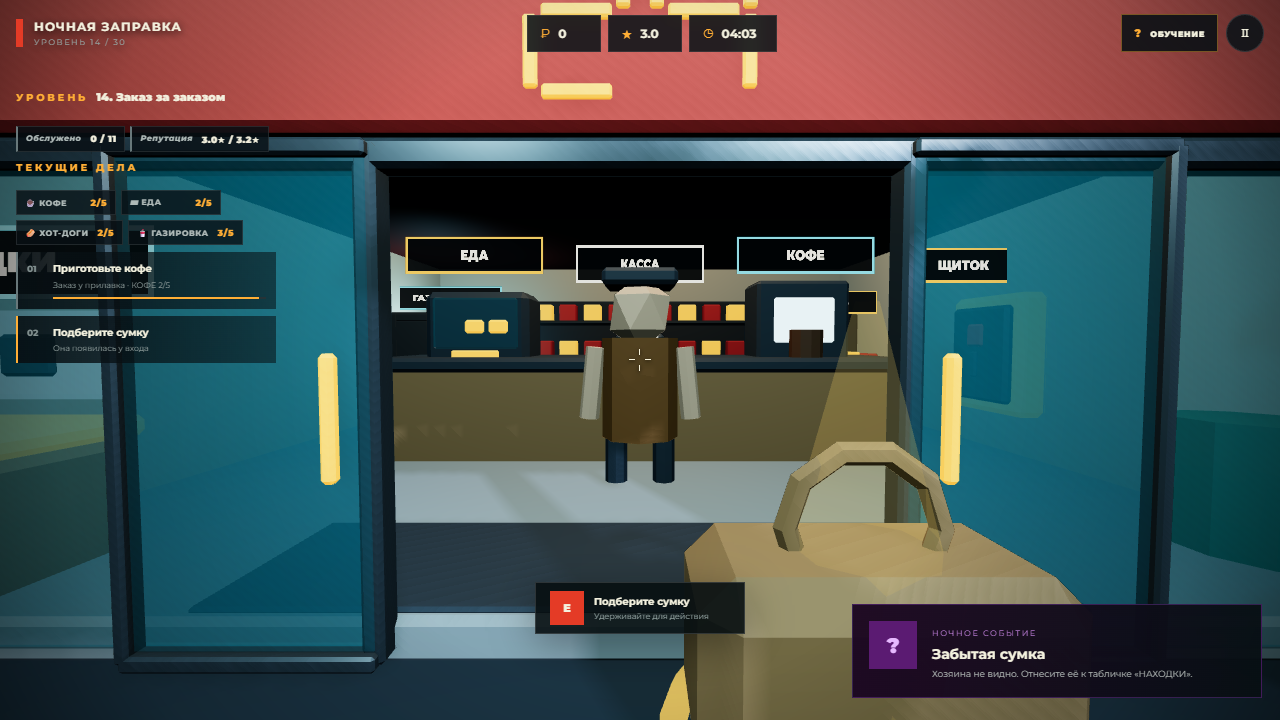
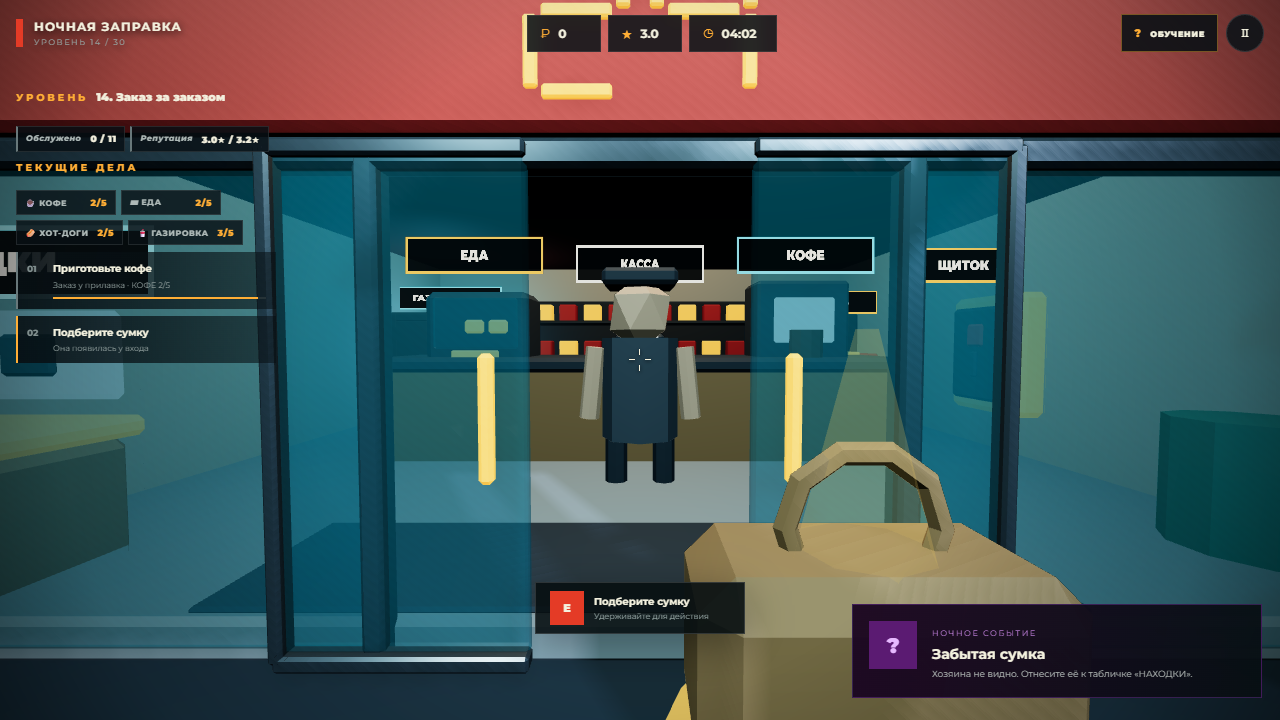
The last minute of a shift is a dawn
The sky was the same at 02:47 and at 00:03, so the end of a night was a
number you read rather than something you saw coming.

For the last sixty seconds one value runs from 0 to 1 and everything else
follows it. Stars, milky way and moon halo fade out, the moon itself goes
pale, meteors stop. A warm band comes up on the horizon to the right,
along the road, with a brighter core under it and a spark at the very
end. The fog thins, its colour and the background lift from night blue
toward a grey-blue morning, and the hemisphere light comes up with them.
Nothing moves, so it costs nothing: the same sprites and materials the
sky already had, with an opacity each.

The blackout still wins over all of it — the panel going out is darker
than any hour. Every shift starts from night again, and so does the menu.

Written so it is one number to reason about: sky.setDawn(value) in
sky.js, applyDawn(value) in the game, and a single line in the shift loop
that computes it from the time left.

diff --git a/src/main.js b/src/main.js
@@ -31,6 +31,8 @@ const WORLD={minX:-14.2,maxX:9.2,minZ:-13.2,maxZ:6.2};
 const VEHICLE_STATE=Object.freeze({ENTERING:'entering',QUEUEING:'queueing',APPROACHING_PUMP:'approachingPump',WAITING:'waiting',FUELING:'fueling',LEAVING:'leaving'});
 const PLAYER_RADIUS=.36,CUSTOMER_RADIUS=.34,SAFE_MARGIN=.22,VEHICLE_MARGIN=.28,SAFE_APPROACH=12,STALL_LIMIT=6,QUEUE_STALL=10,YIELD_LIMIT=18;
 const GROUND_Y=.26,UPPER_FLOOR_Y=3.68,EYE_HEIGHT=1.62,JUMP_SPEED=4.9,GRAVITY=16.5,RAIN_HEIGHT=15;
+// Последняя минута смены — это рассвет: небо светлеет, звёзды гаснут, горизонт разгорается.
+const DAWN_WINDOW=60,DAWN_FOG=new THREE.Color(0x56626f);
 const STAIR={minX:4.98,maxX:6.66,minZ:-2.38,maxZ:3.12},UPPER_LANDING={minX:4.16,maxX:7.1,minZ:2.54,maxZ:4.14},UPPER_ROOM={minX:-4.3,maxX:4.3,minZ:-2.16,maxZ:6.2};
 const CART_SPOT=new THREE.Vector3(0,.95,1.02);
 /* Выкупленное стоит в моделях с самого начала и просто прячется до покупки. */
@@ -68,7 +70,7 @@ const GUIDE_SLIDES=[
   ['Кто приехал','Ночью приезжают не только легковые. Мотоцикл заправляется за пару секунд, но и ждать почти не станет — денег с него мало. Фура стоит у колонки дольше всех и платит вдвое: ей нужен третий пост слева, между колонками под навесом ей не развернуться. Автобус привозит в магазин сразу три заказа и не уедет, пока не обслужат последнего.','tutorial/08-vehicles.png'],
   ['Склад наверху','Всё, чем торгует прилавок, и весь инвентарь лежат на складе второго этажа: выйдите на улицу, поднимитесь по лестнице справа от магазина, и дверь откроется сама. У каждого стеллажа своя лента — кофе, еда, хот-доги, газировка. У самой двери стоят верстак с инструментом и швабра с ведром. Коробку можно взять заранее, пока нет очереди, а инструмент со шваброй — до того, как что-нибудь случится.','tutorial/07-stock.png'],
   ['Станция растёт','Ночная выручка остаётся на станции. В меню и на экране итогов есть раздел «СТАНЦИЯ»: там за деньги выкупаются вторая кофемашина, прожекторы над площадкой, щит на трассе, скоростные насосы, третий пост навсегда и тележка для коробок. Покупка одна и навсегда — её видно на площадке и слышно по работе, а работать лучше, чем «на зачёт», становится выгодно.','tutorial/09-station.png'],
-  ['Цель ночи','У каждого уровня своя цель: обслужить столько-то машин, заработать сумму, удержать репутацию или не упустить клиентов. Прогресс виден в панели дел слева. Если цель не выполнена, уровень можно переиграть — деньги и улучшения остаются.','tutorial/05-goal.png'],
+  ['Цель ночи','У каждого уровня своя цель: обслужить столько-то машин, заработать сумму, удержать репутацию или не упустить клиентов. Прогресс виден в панели дел слева. За минуту до конца небо начинает светлеть, а звёзды гаснут — сколько осталось, видно и без часов. Если цель не выполнена, уровень можно переиграть: деньги и выкупленное на станции остаются.','tutorial/05-goal.png'],
   ['Ночные происшествия','При отключении света вся заправка остановится: поднимитесь на склад за инструментом и почините щиток у левой стены магазина. Входные двери аварийно останутся открыты. Пролитый кофе закрывает прилавок: пока пол липкий, заказы не готовят и не выдают, так что за шваброй придётся идти сразу. Жёлтый ящик «НАХОДКИ» стоит справа от входа.','tutorial/04-events.png']
 ];
 
@@ -77,7 +79,7 @@ class NightStationGame{
     this.canvas=$('#scene');this.scene=new THREE.Scene();this.scene.background=new THREE.Color(0x091820);this.scene.fog=new THREE.FogExp2(0x091820,.022);
     this.camera=new THREE.PerspectiveCamera(72,innerWidth/innerHeight,.08,120);this.camera.position.set(0,1.65,-2.8);this.camera.rotation.order='YXZ';
     this.renderer=new THREE.WebGLRenderer({canvas:this.canvas,antialias:true,powerPreference:'high-performance'});this.renderer.setPixelRatio(Math.min(devicePixelRatio,1.55));this.renderer.setSize(innerWidth,innerHeight);this.renderer.shadowMap.enabled=true;this.renderer.shadowMap.type=THREE.PCFSoftShadowMap;this.renderer.outputColorSpace=THREE.SRGBColorSpace;this.renderer.toneMapping=THREE.ACESFilmicToneMapping;this.renderer.toneMappingExposure=1.28;
-    this.clock=new THREE.Clock();this.assets={};this.mode='loading';this.player=null;this.jobs=[];this.cars=[];this.carQueue=[];this.traffic=[];this.pumps=[];this.nearest=null;this.actionHeld=false;this.actionLatched=false;this.actionProgress=0;this.keys={};this.joy={x:0,y:0};this.yaw=0;this.pitch=-.04;this.lookTouch=null;this.jobId=0;this.vehicleId=0;this.taskSignature='';this.guideIndex=0;this.resumeAfterGuide=false;this.elapsed=0;this.shiftConfig=getShiftConfig(1);this.shiftLength=this.shiftConfig.duration;this.spawnTimer=2;this.eventTimer=24;this.trafficTimer=4;this.stock={coffee:MAX_STOCK,snack:MAX_STOCK,hotdog:MAX_STOCK,soda:MAX_STOCK};this.fuelMax=null;this.fuelLeft=Infinity;this.fuelWarned=false;this.weather=WEATHER.clear.id;this.baseHemi=1.85;this.carry=null;this.fuelHose=null;this.served=0;this.lost=0;this.shiftStartMoney=0;this.shiftEarned=0;this.scriptedFired=new Set();this.currentRush=null;this.levelResult=null;this.goalSignature='';this.closedSigns=[];this.blackout=false;this.blackoutCarry=null;this.specialVan=null;this.tanker=null;this.bayHeld=null;this.bayReservedAt=0;this.draining=false;this.doorOpen=0;this.doorParts={left:[],right:[]};this.doorGlass=[];this.upperDoorOpen=0;this.upperDoorParts=[];this.stockVisuals={coffee:[],snack:[],hotdog:[],soda:[]};this.shelfVisuals={coffee:[],snack:[],soda:[],hotdog:[]};this.customers=[];this.notedTypes=new Set();this.upgradeVisuals={};this.floodLights=[];this.powerVisuals=[];this.markerBaseY=.12;this.state=migrateProgress(DEFAULT_PROGRESS);
+    this.clock=new THREE.Clock();this.assets={};this.mode='loading';this.player=null;this.jobs=[];this.cars=[];this.carQueue=[];this.traffic=[];this.pumps=[];this.nearest=null;this.actionHeld=false;this.actionLatched=false;this.actionProgress=0;this.keys={};this.joy={x:0,y:0};this.yaw=0;this.pitch=-.04;this.lookTouch=null;this.jobId=0;this.vehicleId=0;this.taskSignature='';this.guideIndex=0;this.resumeAfterGuide=false;this.elapsed=0;this.shiftConfig=getShiftConfig(1);this.shiftLength=this.shiftConfig.duration;this.spawnTimer=2;this.eventTimer=24;this.trafficTimer=4;this.stock={coffee:MAX_STOCK,snack:MAX_STOCK,hotdog:MAX_STOCK,soda:MAX_STOCK};this.fuelMax=null;this.fuelLeft=Infinity;this.fuelWarned=false;this.weather=WEATHER.clear.id;this.baseHemi=1.85;this.dawn=0;this.nightFog=new THREE.Color(0x091820);this.nightDensity=.022;this.carry=null;this.fuelHose=null;this.served=0;this.lost=0;this.shiftStartMoney=0;this.shiftEarned=0;this.scriptedFired=new Set();this.currentRush=null;this.levelResult=null;this.goalSignature='';this.closedSigns=[];this.blackout=false;this.blackoutCarry=null;this.specialVan=null;this.tanker=null;this.bayHeld=null;this.bayReservedAt=0;this.draining=false;this.doorOpen=0;this.doorParts={left:[],right:[]};this.doorGlass=[];this.upperDoorOpen=0;this.upperDoorParts=[];this.stockVisuals={coffee:[],snack:[],hotdog:[],soda:[]};this.shelfVisuals={coffee:[],snack:[],soda:[],hotdog:[]};this.customers=[];this.notedTypes=new Set();this.upgradeVisuals={};this.floodLights=[];this.powerVisuals=[];this.markerBaseY=.12;this.state=migrateProgress(DEFAULT_PROGRESS);
     this.audio=audio;this.hands=new HandView();this.moving=false;this.lastYaw=0;this.lastPitch=0;this.grounded=true;this.jumpHeight=0;this.jumpSpeed=0;this.landDip=0;
     this.setupWorld();this.setupInput();this.setupUI();window.addEventListener('resize',()=>this.resize());document.addEventListener('visibilitychange',()=>this.visibility());
   }
@@ -147,12 +149,14 @@ class NightStationGame{
   applyWeather(kind){
     const weather=WEATHER[kind]||WEATHER.clear;this.weather=weather.id;
     const density={clear:.022,rain:.031,fog:.055}[weather.id],tint=weather.id==='fog'?0x101f26:0x091820;
+    this.nightFog.setHex(tint);this.nightDensity=density;
     this.scene.fog.density=density;this.scene.fog.color.setHex(tint);this.scene.background.setHex(tint);
     this.baseHemi=(weather.id==='fog'?2.15:weather.id==='rain'?1.6:1.85)+(this.has('floodlights')?.38:0);
     this.hemi.intensity=this.blackout?.45:this.baseHemi;
     this.rain.points.visible=weather.id==='rain';
     this.groundMats.forEach(material=>{material.roughness=weather.id==='rain'?.38:.95});
     this.sky.group.visible=weather.id!=='fog';
+    this.applyDawn(this.dawn);
   }
   createLandmarkLabel(text,color,position,width=2,fontSize=43){
     const canvas=document.createElement('canvas');canvas.width=512;canvas.height=128;const ctx=canvas.getContext('2d');ctx.fillStyle='rgba(5,13,17,.92)';ctx.fillRect(8,12,496,104);ctx.strokeStyle=color;ctx.lineWidth=8;ctx.strokeRect(8,12,496,104);ctx.fillStyle='#f7f3df';ctx.font=`900 ${fontSize}px Montserrat, Arial`;ctx.textAlign='center';ctx.textBaseline='middle';ctx.fillText(text,256,66);
@@ -249,11 +253,11 @@ class NightStationGame{
     ui.stationGrid.onclick=event=>{const card=event.target.closest('[data-upgrade]');if(card)this.buyUpgrade(card.dataset.upgrade)};
   }
   setState(data){if(!data)return;this.state=migrateProgress(data);this.checkAchievements(true);this.shiftConfig=this.shiftFor(this.state.shift);this.shiftLength=this.shiftConfig.duration;audio.setMuted(!this.state.sound);audio.setMusicVolume(this.state.musicVolume/100);const slider=$('#music-volume');if(slider){slider.value=this.state.musicVolume;$('#music-volume-value').textContent=`${this.state.musicVolume}%`}$('#sound-btn').textContent=`ЗВУК: ${this.state.sound?'ВКЛ':'ВЫКЛ'}`}
-  showMenu(){this.mode='menu';this.applyWeather('clear');document.exitPointerLock?.();this.camera.fov=43;this.camera.updateProjectionMatrix();this.camera.position.set(12,12,-16);this.camera.lookAt(0,1,-4);if(this.player)this.player.visible=true;ui.hud.classList.add('hidden');ui.tasks.classList.add('hidden');ui.mobile.classList.add('hidden');ui.prompt.classList.add('hidden');ui.crosshair.classList.add('hidden');ui.lookHint.classList.add('hidden');ui.results.classList.add('hidden');ui.campaignComplete.classList.add('hidden');ui.menu.classList.remove('hidden');$('#continue-btn').classList.toggle('hidden',!loadLocal()&&!cloudSave);}
+  showMenu(){this.mode='menu';this.dawn=0;this.applyWeather('clear');document.exitPointerLock?.();this.camera.fov=43;this.camera.updateProjectionMatrix();this.camera.position.set(12,12,-16);this.camera.lookAt(0,1,-4);if(this.player)this.player.visible=true;ui.hud.classList.add('hidden');ui.tasks.classList.add('hidden');ui.mobile.classList.add('hidden');ui.prompt.classList.add('hidden');ui.crosshair.classList.add('hidden');ui.lookHint.classList.add('hidden');ui.results.classList.add('hidden');ui.campaignComplete.classList.add('hidden');ui.menu.classList.remove('hidden');$('#continue-btn').classList.toggle('hidden',!loadLocal()&&!cloudSave);}
   prepareStart(fresh){audio.ensure();if(fresh)this.setState(DEFAULT_PROGRESS);ui.menu.classList.add('hidden');if(this.state.playMode===PLAY_MODE.CAMPAIGN&&this.state.campaignComplete){this.showCampaignComplete();return}if(this.state.playMode===PLAY_MODE.CAMPAIGN)this.state.shift=nextLevel(this.state.levelsCleared);if(!this.state.tutorial)ui.tutorial.classList.remove('hidden');else this.startShift()}
   startShift(){
     this.shiftConfig=this.shiftFor(this.state.shift);this.shiftLength=this.shiftConfig.duration;
-    this.clearShift();this.applyUpgradeVisuals();this.addStandJobs();this.mode='playing';this.elapsed=0;this.spawnTimer=this.shiftConfig.carSpawn.initialDelay;this.eventTimer=randomFromRange(this.shiftConfig.eventSpawn.initial);this.trafficTimer=2.5;this.served=0;this.lost=0;this.scriptedFired.clear();this.notedTypes=new Set();this.currentRush=null;this.levelResult=null;this.goalSignature='';this.applyLevelSetup();this.shiftStartMoney=this.state.money;this.blackout=false;this.blackoutCarry=null;this.setBlackout(false);this.doorOpen=0;this.upperDoorOpen=0;this.applyDoorOpen();this.applyUpperDoorOpen();this.yaw=0;this.pitch=-.04;this.camera.fov=72;this.camera.updateProjectionMatrix();this.player.position.set(0,GROUND_Y,-3.35);this.player.visible=false;this.resetJump();ui.hud.classList.remove('hidden');ui.tasks.classList.remove('hidden');ui.crosshair.classList.remove('hidden');ui.lookHint.classList.toggle('hidden',isTouch||document.pointerLockElement===this.canvas);ui.mobile.classList.toggle('hidden',!isTouch);ui.results.classList.add('hidden');ui.campaignComplete.classList.add('hidden');this.announceLevel();this.updateHud();saveProgress(this.state);this.lockPointer()
+    this.clearShift();this.applyDawn(0);this.applyUpgradeVisuals();this.addStandJobs();this.mode='playing';this.elapsed=0;this.spawnTimer=this.shiftConfig.carSpawn.initialDelay;this.eventTimer=randomFromRange(this.shiftConfig.eventSpawn.initial);this.trafficTimer=2.5;this.served=0;this.lost=0;this.scriptedFired.clear();this.notedTypes=new Set();this.currentRush=null;this.levelResult=null;this.goalSignature='';this.applyLevelSetup();this.shiftStartMoney=this.state.money;this.blackout=false;this.blackoutCarry=null;this.setBlackout(false);this.doorOpen=0;this.upperDoorOpen=0;this.applyDoorOpen();this.applyUpperDoorOpen();this.yaw=0;this.pitch=-.04;this.camera.fov=72;this.camera.updateProjectionMatrix();this.player.position.set(0,GROUND_Y,-3.35);this.player.visible=false;this.resetJump();ui.hud.classList.remove('hidden');ui.tasks.classList.remove('hidden');ui.crosshair.classList.remove('hidden');ui.lookHint.classList.toggle('hidden',isTouch||document.pointerLockElement===this.canvas);ui.mobile.classList.toggle('hidden',!isTouch);ui.results.classList.add('hidden');ui.campaignComplete.classList.add('hidden');this.announceLevel();this.updateHud();saveProgress(this.state);this.lockPointer()
   }
   clearShift(){this.returnFuelHose();for(const c of [...this.cars])this.despawn(c);this.cars=[];this.carQueue=[];for(const t of [...this.traffic])this.despawn(t);this.traffic=[];for(const j of this.jobs)if(j.visual)this.scene.remove(j.visual);this.jobs=[];this.pumps.forEach(p=>{p.car=null;p.departingCar=null;p.broken=false;p.reserved=false});if(this.specialVan){this.despawn(this.specialVan);this.specialVan=null}if(this.tanker){this.despawn(this.tanker);this.tanker=null}this.clearCustomers();this.bayHeld=null;this.draining=false;this.carry=null;this.blackoutCarry=null;this.kitMop?.forEach(m=>m.visible=true);this.updateCarry()}
   update(dt){
@@ -272,6 +276,8 @@ class NightStationGame{
   closeGuide(){ui.guide.classList.add('hidden');if(!this.resumeAfterGuide)return;this.resumeAfterGuide=false;this.mode='playing';audio.pause(false);ui.mobile.classList.toggle('hidden',!isTouch);ui.lookHint.classList.toggle('hidden',isTouch||document.pointerLockElement===this.canvas);this.lockPointer();this.clock.getDelta()}
   updatePlay(dt){
     this.elapsed+=dt;if(this.elapsed>=this.shiftLength||this.levelResult&&!this.levelResult.passed){this.finishShift();return}
+    const left=this.shiftLength-this.elapsed,dawn=left>=DAWN_WINDOW?0:1-Math.max(0,left)/DAWN_WINDOW;
+    if(dawn!==this.dawn)this.applyDawn(dawn);
     this.updateSchedule();
     if(!this.blackout){
       this.spawnTimer-=dt;this.eventTimer-=dt;
@@ -1063,6 +1069,17 @@ class NightStationGame{
   }
   /* ─────────── Уровень: подготовка, брифинг, расписание, цель ─────────── */
   queueLimit(){return this.shiftConfig.queueSize+(this.currentRush?this.currentRush.queueBoost:0)}
+  /* Рассвет: одно число от 0 до 1 красит небо, туман, фон и общий свет.
+     Ноль — обычная ночь, единица — момент, когда смена закрывается. */
+  applyDawn(progress){
+    this.dawn=Math.max(0,Math.min(1,progress||0));
+    this.sky.setDawn(this.dawn);
+    const eased=this.dawn*this.dawn*(3-2*this.dawn);
+    const tint=this.nightFog.clone().lerp(DAWN_FOG,eased*.85);
+    this.scene.fog.color.copy(tint);this.scene.background.copy(tint);
+    this.scene.fog.density=this.nightDensity*(1-eased*.4);
+    if(!this.blackout)this.hemi.intensity=this.baseHemi+eased*.8;
+  }
   /* Ночь по данным уровня плюс то, что выкуплено: третий пост, свет, щит. */
   shiftFor(number){return applyUpgradesToShift(getShiftConfig(number,this.state.playMode),this.state.upgrades)}
   /* Выкупленное видно на площадке, а не только в формулах. */

diff --git a/src/sky.js b/src/sky.js
@@ -4,7 +4,10 @@ import * as THREE from 'three';
    Небо не ловит туман и едет вместе с камерой, поэтому кажется бесконечно далёким. */
 
 export const MOON_DIRECTION=new THREE.Vector3(-.42,.44,-.79).normalize();
+/* Заря приходит с противоположной луне стороны — вдоль трассы, справа от станции. */
+export const DAWN_DIRECTION=new THREE.Vector3(1,0,.22).normalize();
 const RADIUS=100;
+const clamp01=(value)=>Math.max(0,Math.min(1,value));
 
 /* Мягкая круглая точка: из неё сделаны и звёзды, и ореол вокруг луны. */
 function softSprite(){
@@ -32,6 +35,23 @@ const bandDirection=()=>new THREE.Vector3()
   .addScaledVector(BAND_NORMAL,gauss()*.085)
   .normalize();
 
+/* Полоса у горизонта: широкое тёплое пятно и яркое ядро под ним.
+   Оба спрайта смотрят на камеру, поэтому на любой ширине экрана это ровная заря. */
+function buildDawn(texture){
+  const group=new THREE.Group();
+  const place=(sprite,height,width,tall)=>{
+    sprite.position.copy(DAWN_DIRECTION).multiplyScalar(RADIUS);sprite.position.y=height;
+    sprite.scale.set(width,tall,1);sprite.material.opacity=0;sprite.visible=false;group.add(sprite);
+  };
+  const band=new THREE.Sprite(new THREE.SpriteMaterial({map:texture,color:0xff9b52,transparent:true,opacity:0,depthWrite:false,fog:false,blending:THREE.AdditiveBlending}));
+  place(band,2,210,64);
+  const core=new THREE.Sprite(new THREE.SpriteMaterial({map:texture,color:0xffd49a,transparent:true,opacity:0,depthWrite:false,fog:false,blending:THREE.AdditiveBlending}));
+  place(core,-1,86,30);
+  const spark=new THREE.Sprite(new THREE.SpriteMaterial({map:texture,color:0xfff3d8,transparent:true,opacity:0,depthWrite:false,fog:false,blending:THREE.AdditiveBlending}));
+  place(spark,-3,30,14);
+  return {group,band,core,spark};
+}
+
 function starLayer(count,size,opacity,color,texture,fromBand=false){
   const positions=[];
   for(let i=0;i<count;i++){
@@ -43,6 +63,7 @@ function starLayer(count,size,opacity,color,texture,fromBand=false){
   geometry.setAttribute('position',new THREE.Float32BufferAttribute(positions,3));
   const material=new THREE.PointsMaterial({color,size,map:texture,transparent:true,opacity,depthWrite:false,fog:false,sizeAttenuation:true});
   const points=new THREE.Points(geometry,material);points.frustumCulled=false;
+  points.userData.baseOpacity=opacity;
   return points;
 }
 
@@ -50,9 +71,9 @@ function starLayer(count,size,opacity,color,texture,fromBand=false){
 function buildMoon(texture){
   const moon=new THREE.Group();
   moon.position.copy(MOON_DIRECTION).multiplyScalar(RADIUS);
-  const disc=new THREE.Mesh(new THREE.SphereGeometry(3.8,22,16),new THREE.MeshBasicMaterial({color:0xf6f5e8,fog:false}));
+  const disc=new THREE.Mesh(new THREE.SphereGeometry(3.8,22,16),new THREE.MeshBasicMaterial({color:0xf6f5e8,fog:false,transparent:true}));
   moon.add(disc);
-  const mareMat=new THREE.MeshBasicMaterial({color:0xdfe0d4,fog:false});
+  const mareMat=new THREE.MeshBasicMaterial({color:0xdfe0d4,fog:false,transparent:true});
   const toViewer=MOON_DIRECTION.clone().negate();
   for(const [ox,oy,r] of [[-1.05,.85,1.15],[.95,.2,.8],[-.15,-1.15,.62]]){
     const mare=new THREE.Mesh(new THREE.SphereGeometry(r,10,8),mareMat);
@@ -65,7 +86,7 @@ function buildMoon(texture){
   halo.scale.setScalar(14);moon.add(halo);
   const glow=new THREE.Sprite(new THREE.SpriteMaterial({map:texture,color:0x7ea6c4,transparent:true,opacity:.16,depthWrite:false,fog:false,blending:THREE.AdditiveBlending}));
   glow.scale.setScalar(44);moon.add(glow);
-  return {moon,halo};
+  return {moon,halo,discMaterials:[disc.material,mareMat]};
 }
 
 export function createSky(){
@@ -76,7 +97,10 @@ export function createSky(){
   const mid=starLayer(240,.86,.95,0xe4f0f7,texture);
   const bright=starLayer(60,1.6,1,0xfffdf4,texture);
   group.add(dim,milkyWay,mid,bright);
-  const {moon,halo}=buildMoon(texture);group.add(moon);
+  const {moon,halo,discMaterials}=buildMoon(texture);group.add(moon);
+  const dawn=buildDawn(texture);group.add(dawn.group);
+  const layers=[dim,milkyWay,mid,bright];
+  let dawnProgress=0;
 
   /* Метеор: раз в полминуты-минуту короткая черта прочерчивает небо. */
   const meteor=new THREE.Sprite(new THREE.SpriteMaterial({map:texture,color:0xdff0ff,transparent:true,opacity:0,depthWrite:false,fog:false,blending:THREE.AdditiveBlending}));
@@ -87,13 +111,31 @@ export function createSky(){
   return {
     group,
     moonDirection:MOON_DIRECTION,
+    dawnDirection:DAWN_DIRECTION,
+    starLayers:layers,
+    dawnParts:[dawn.band,dawn.core,dawn.spark],
+    get dawn(){return dawnProgress},
+    /* К последней минуте смены звёзды гаснут, луна бледнеет, горизонт разгорается. */
+    setDawn(value){
+      dawnProgress=clamp01(value);
+      const fade=1-dawnProgress;
+      for(const layer of layers)layer.material.opacity=layer.userData.baseOpacity*fade;
+      for(const material of discMaterials)material.opacity=.25+fade*.75;
+      halo.material.opacity=.36*fade;
+      const glow=dawnProgress*dawnProgress;
+      dawn.band.material.opacity=.5*glow;dawn.band.visible=glow>.001;
+      dawn.core.material.opacity=.42*glow;dawn.core.visible=glow>.001;
+      dawn.spark.material.opacity=.6*Math.max(0,dawnProgress-.55)/.45;dawn.spark.visible=dawnProgress>.55;
+    },
     update(dt,cameraPosition){
       group.position.copy(cameraPosition);
       group.rotation.y+=dt*.0008; // очень медленный ход звёзд за смену
-      const t=performance.now()*.001;
-      mid.material.opacity=.72+Math.sin(t*1.7)*.08;
-      bright.material.opacity=.9+Math.sin(t*2.6+1.1)*.1;
-      halo.material.opacity=.36+Math.sin(t*.8)*.035;
+      const t=performance.now()*.001,fade=1-dawnProgress;
+      mid.material.opacity=(.72+Math.sin(t*1.7)*.08)*fade;
+      bright.material.opacity=(.9+Math.sin(t*2.6+1.1)*.1)*fade;
+      halo.material.opacity=(.36+Math.sin(t*.8)*.035)*fade;
+      dim.material.opacity=dim.userData.baseOpacity*fade;
+      milkyWay.material.opacity=milkyWay.userData.baseOpacity*fade;
       if(meteor.visible){
         meteorTime+=dt;
         const p=meteorTime/1.1;
@@ -104,7 +146,7 @@ export function createSky(){
           meteor.material.rotation=meteor.userData.tilt;
           meteor.scale.set(9,.42,1);
         }
-      }else if((meteorTimer-=dt)<=0){
+      }else if((meteorTimer-=dt)<=0&&dawnProgress<.25){
         meteorTimer=26+Math.random()*44;meteorTime=0;
         const start=domeDirection(),drift=domeDirection();
         meteorFrom.copy(start).multiplyScalar(RADIUS);

diff --git a/README.md b/README.md
@@ -21,6 +21,7 @@
 - **Предметы в руках.** Всё, что игрок взял, видно в нижней части экрана: стакан кофе с паром, сэндвич, коробка товара, забытая сумка, швабра и инструменты. Предметы покачиваются при ходьбе, ведут за поворотом камеры и отыгрывают само действие — шваброй возят по полу, отвёрткой крутят.
 - **Инвентарь.** Весь он стоит на складе у двери: на верстаке ящик с инструментом, рядом швабра с ведром. Инструментом чинят заклинившую колонку и выбитый щиток, шваброй убирают разлитый кофе — а пока пятно на полу, прилавок закрыт: заказы не готовят и не выдают, и ожидание у кассы на это время замирает. И то и другое можно взять и вернуть в любой момент; если руки понадобились под груз, они возвращаются на место сами. За инвентарём стоит сходить заранее: ночью подниматься некогда.
 - **Ночное небо.** Над трассой висит луна с ореолом, вокруг — звёздное небо с млечным путём и редкими метеорами. Лунный свет падает именно оттуда, где нарисована луна, а само небо не ловит туман и едет за камерой, поэтому кажется бесконечно далёким.
+- **Рассвет.** Последнюю минуту смены небо отрабатывает само: над трассой справа разгорается тёплая полоса, звёзды и млечный путь гаснут, луна бледнеет, туман редеет, а площадка светлеет. Конец смены становится видно раньше, чем на него посмотришь в часы, — и на этом же рассвете заканчивается кампания.
 - **Прыжок.** `Space` на ПК и кнопка «Прыжок» на телефоне. Прыжок работает только по вертикали: перепрыгнуть прилавок, колонку или машину нельзя, зато предмет в руках отстаёт в полёте и проседает при приземлении.
 - **Склад на втором этаже.** Всё, чем торгует прилавок, и весь инвентарь лежат наверху: наружная лестница справа от магазина ведёт на площадку, дверь склада открывается сама. Четыре стеллажа с цветными лентами — кофе, еда, хот-доги, газировка — а у двери верстак с инструментом и швабра с ведром. Коробку можно взять в любой момент: и по заданию смены, и заранее, пока очереди нет; если запас полон, полка ничего не отдаст. Передумали — коробка возвращается на место. Витрины внизу пустеют на глазах: по кофейнику, сэндвичам, сосискам на гриле и банкам в холодильнике видно, сколько осталось.
 - **Итоги смены.** На рассвете смена закрывается: показываются заработок, число обслуженных клиентов, репутация и рекорд заработка за смену. Оттуда же открывается станция и предлагается rewarded-реклама.
@@ -99,7 +100,7 @@ SDK загружается с нескольких официальных адр
 - `src/content/shifts.js`, `src/content/progress.js` — выбор конфига уровня, бесконечный режим и миграция сохранений.
 - `src/traffic.js` — маршруты машин по трассе и площадке, разгон и торможение, фары, стопы и задний ход.
 - `src/hands.js` — предметы в руках: отдельная сцена первого плана, которая рисуется поверх мира.
-- `src/sky.js` — луна, звёзды, млечный путь и метеоры.
+- `src/sky.js` — луна, звёзды, млечный путь, метеоры и рассвет последней минуты.
 - `src/audio.js`, `src/gamepush.js` — звук и интеграция с GamePush.
 
 ## Данные для карточки
